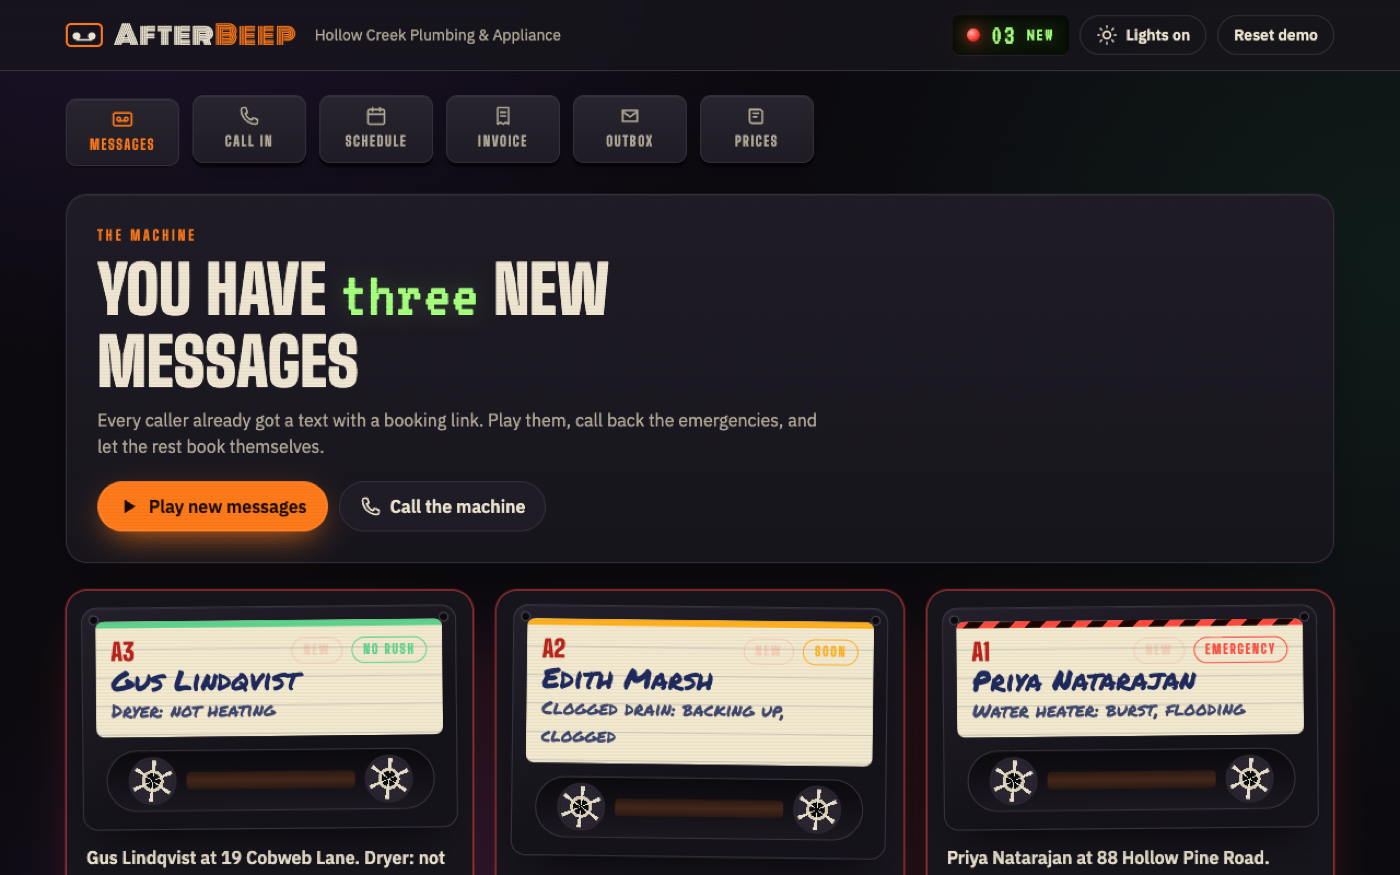
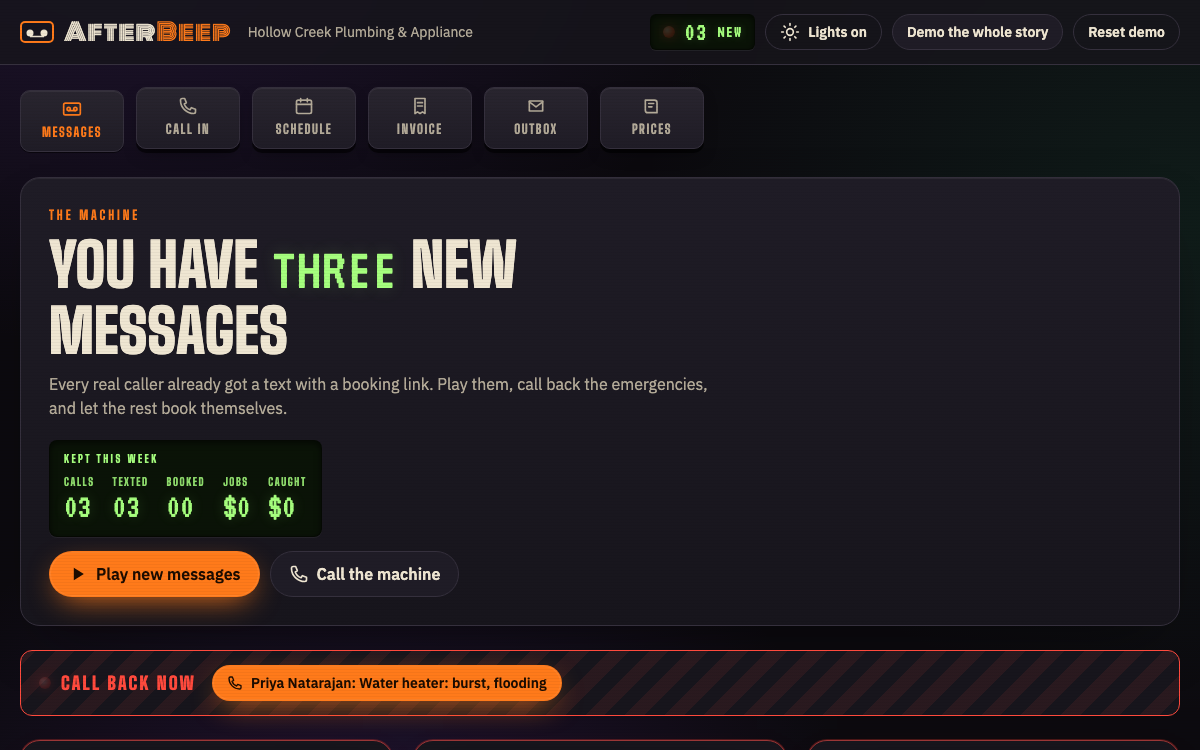
Rewrite the README around the demo, the stakes and the business
- A 15-second recording of the whole story, a "Try it in 60 seconds"
  list and a screenshot strip of the six key screens.
- What a missed call costs, with sources; price, cost to serve on AWS,
  margins, market and go-to-market; and how AfterBeep compares with
  iPhone Live Voicemail, Google Voice, Jobber, Podium and Smith.ai.
- A Mermaid diagram of the real AWS path, spec traceability counts, and
  a short Built with Kiro section that points to the feature map.

diff --git a/README.md b/README.md
@@ -1,105 +1,141 @@
 # AfterBeep
 
-**The answering machine, back from the dead: it answers the calls a one-person trade business misses, books the job by text, and turns a spoken invoice into a checked, approved bill.**
+**Kiroween 2026 · Resurrection** · [![check](https://github.com/blackwingArtisan/afterbeep/actions/workflows/check.yml/badge.svg)](https://github.com/blackwingArtisan/afterbeep/actions/workflows/check.yml) · MIT
 
-![AfterBeep inbox: missed calls shown as cassettes](docs/inbox.png)
+### The machine that hears fifteen and knows you meant fifty.
 
-## Who it's for
-Plumbers, appliance techs, HVAC and roofing crews of one. They miss calls because they are under a sink, and they write invoices at 9 pm because they were on a ladder all day. Every missed call is a job that goes to the next name on the search page.
+The 1985 front office, back from the dead, for one-person trade businesses. **The answering machine** answers the calls a plumber misses under a sink and texts every caller a booking link. **The Dictaphone** turns a spoken invoice into line items. **The carbon copies** remember what you charge, so "dryer belt, fifteen" is held until you confirm you meant $50. One plan, $39 a month.
 
-**Why now:** speech-to-text and language models became accurate enough to understand a rushed voicemail and cheap enough to run on every call, so a one-person shop can have a front desk without hiring one.
+**Live demo:** link added at deploy · **Video:** link added at submission
 
-**Pricing:** one plan, $39 a month, with a 14-day free trial. No per-invoice fee.
+![One missed call, from the beep to a sent invoice, in 15 seconds](docs/demo.gif)
+
+## Try it in 60 seconds
+Requires Node 24 or later. No accounts or keys.
+
+1. `npm ci && npm run build && npm start`, then open http://localhost:3111.
+2. On the landing page, press **Play** on the machine: it rings, types a burst water heater voicemail and shows the text the caller got back. Press **Bill** to see a misheard price held.
+3. Press **Demo the whole story**. A call places itself and ends with June's tape and the exact text she was sent.
+4. **Open the text as June**, pick a time, book.
+5. **Back to Morgan: bill it by voice.** Line it up, use the usual $50.00, approve and send. The invoice is stamped SENT.
+6. Open **Messages**: "Kept this week" now counts the booking and the $35 the price check caught.
+
+## What a missed call costs
+
+| | | Source |
+|---|---|---|
+| Callers who reach voicemail and hang up | **69%** | Moneypenny call report, 2016 |
+| Micro businesses that fail to answer their calls | **1 in 3** | Moneypenny call report, 2016 |
+| Typical minor appliance repair | **$206** | Thumbtack, 2026 |
+| Typical emergency plumbing call | **$377** | Thumbtack, 2026 |
+| US plumbing, HVAC and electrical contractors with no employees | **362,219**, up 10% since 2019 | US Census Bureau, Nonemployer Statistics 2023 |
+
+Five missed calls a week, one in three booked at $206, is about **$1,490 a month** of work that would have gone to the next name on the search page. One booked job pays for five months of AfterBeep. Sources, assumptions and the full model: [docs/business.md](docs/business.md).
+
+## Business
+
+- **Price:** $39 a month, flat, 14-day free trial, no per-call or per-invoice fees.
+- **Cost to serve on AWS:** about **$0.074 per call** (Connect, Transcribe, Bedrock Nova Lite, a two-segment text back and a confirmation) plus $3.90 a month for the number and 10DLC registration. Gross margin is **80% at 50 calls a month** and **52% at 200**. Texts are two-thirds of the cost, so shorter texts are the main lever.
+- **Market:** 1% of the solo building-equipment contractors alone is about $1.7 million a year.
+- **Go to market:** no new number (conditional call forwarding on the phone they already carry), supply-house counter cards with a "call this and leave a message" QR code, trade forums, and a free month per referral.
+
+## Why not iPhone Live Voicemail, Google Voice, Jobber, Podium or Smith.ai?
+
+| Option | Price | What it leaves undone |
+|---|---|---|
+| iPhone Live Voicemail | Free | Shows the message; no text back, no booking, no invoice |
+| Google Voice | $10-$30 per user a month | Transcribes; no booking link, no schedule, no price checks |
+| Jobber | Core $29-$49 a month, AI Receptionist +$29 | A whole field-service suite to move into; invoices do not check a spoken price against your history |
+| Podium | Quote from sales | Built for multi-location businesses |
+| Smith.ai AI Receptionist | Free for 25 calls, then $150 a month for 75 | Priced per call, answers as a receptionist, no invoices |
+
+A transcript is free now. What a solo tech still lacks is what happens after the beep: the text back, the booking, and a bill that cannot go out wrong.
+
+## Screens
+
+| Landing | The call | The hold |
+|---|---|---|
+| ![Landing page with the working answering machine](docs/screens/landing.png) | ![A missed call read, filed and texted back](docs/screens/story-call.png) | ![A misheard dryer belt price held against four past invoices](docs/screens/hold.png) |
+
+| The caller's phone | Sent | The inbox |
+|---|---|---|
+| ![Booking page on a phone](docs/screens/booking-phone.png) | ![Invoice stamped sent, next to the customer's text](docs/screens/story-sent.png) | ![Cassette inbox with the Kept this week readout](docs/inbox.png) |
 
 ## What works today
-Everything below runs on a laptop with no accounts and no keys.
+Everything runs on a laptop with no accounts. Each item is covered by the tests below.
 
-**Missed calls**
-- A call simulator rings the machine, plays the greeting and the beep, and records the caller. You can pick a sample voicemail, say one into the mic (Web Speech API), or type it.
-- Each message is read for the caller's name, callback number (a spoken number beats the caller ID), address, job, and urgency (emergency, soon, or routine).
-- The caller gets a text right away with a booking link. Emergencies are promised a call back, and everyone else is shown the first open slot.
-- Hang-ups and "hello? anyone there?" messages are filed but not texted, and a caller who rings twice in 10 minutes gets one text, not two.
-- The booking page shows real open slots: in the business's time zone, inside opening hours, with no overlap with booked jobs. Emergencies are offered slots today. When the caller books, the job lands on the schedule and a confirmation text goes out.
-- The inbox shows each message as a cassette with a seven-segment counter, a blinking message light, playback by speech synthesis, and one-tap call back.
+**The answering machine**
+- Reads each voicemail for the caller's name, callback number (a spoken number beats caller ID), address, job and urgency. A furnace that quit at twenty degrees with a baby at home is an emergency; no hot water is "soon".
+- Texts every real caller a booking link at once. Emergencies are promised a call back; everyone else sees the first open slot. Hang-ups get no text, a repeat caller gets one text per 10 minutes, and a text the carrier refuses is filed with a retry button.
+- The booking page offers real open slots in the business's time zone, lets the caller correct the address, and texts a confirmation.
+- The inbox shows each message as a cassette, emergencies first under a "Call back now" strip, with a seven-segment counter and a "Kept this week" readout.
 
-**Voice invoices**
-- Say "Dryer belt fifteen, taxed. One hour labor at eighty-five. Trip charge." and get line items. Code does every multiplication, the tax and the total, in integer cents.
-- A price book is built from the owner's past invoices. "Fifteen" for a belt that has always been $50 holds the invoice until the owner chooses. A missing price is filled from history, and "twelve fifty" reads as $1,250 for a water heater and $12.50 for a cartridge.
-- Quantities are checked too. "Forty water heater elements" when the most ever billed is two, or twenty hours of labor, holds the line. "Element ninety nine dollars and a thermostat for forty" becomes two lines, and a number said like a price is never read as a quantity.
-- A price with two readings and no history to settle it ("part three twenty-nine": $329 or $3.29) waits for the owner to pick one.
-- The confirm screen sends only when the server's recomputed total equals the exact total the owner approved. The customer gets an invoice link, the job is marked invoiced, and the price book learns the new prices.
-
-**Product**
-- A landing page with pricing, light and dark themes, and caller pages built for phones.
-
-## How to run
-Requires Node 24 or later.
-
-```bash
-npm ci
-npm run build
-npm start                 # http://localhost:3111
-```
-
-For development with hot reload:
-
-```bash
-npm run dev               # client on http://localhost:3110, API on 3111
-```
-
-Open `/machine` for the owner's machine and `/machine/call` to leave it a message. **Reset demo** restores the seeded data.
-
-**Demo mode.** The call simulator and the reset button need no login, so they only run in demo mode. Demo mode is on by default while every adapter is local (texts and invoices go only to the outbox) and turns off by itself when any real adapter is selected. Set `AFTERBEEP_DEMO=off` before any public deploy that holds real customer data. The owner screens have no login yet: this build is a single-tenant demo.
-
-## How to test
-```bash
-npm run typecheck
-npm test                  # Vitest: domain and API
-npx playwright install chromium
-npm run test:e2e          # Playwright against the production build on port 3112
-```
-
-The end-to-end tests drive the real server. They cover a missed call to a booked job, a hang-up that gets no text, a held invoice that is approved and sent, two items joined by "and", a held quantity, an ambiguous price the owner picks, the landing page and theme, and the caller booking page on a phone viewport.
+**The Dictaphone and the carbon copies**
+- "Dryer belt fifteen, taxed. One hour labor at eighty-five. Trip charge." becomes three lines. Code does every multiplication, the tax and the total in integer cents.
+- A price book built from past invoices holds a price more than 15% below or 25% above the usual one, fills a missing price from history, reads "twelve fifty" as $1,250 for a water heater, and keeps "forty gallon" as a size, not a quantity.
+- Quantities are checked too, and a price with two readings and no history waits for the owner to pick one.
+- The server recomputes the total and sends only when it equals the exact total the owner approved.
 
 ## Architecture
-```
-src/domain/     pure logic: money, spoken numbers, tax, invoice parser, price book, voicemail rules, slots
-src/adapters/   ports + implementations: store, transcriber, extractor, sms, invoices
-src/server/     Hono API, services (voicemail, booking, invoicing), seed data
-src/client/     React app: landing, machine (inbox, call, schedule, invoice, outbox, prices), caller pages
-infra/connect/  Amazon Connect contact flow + Lambda for the real phone path
-.kiro/          steering, specs, hooks
+
+```mermaid
+flowchart LR
+  caller([Caller]) -->|no answer, forwards| connect[Amazon Connect<br/>greeting, beep, record]
+  connect --> s3[(S3 recording)]
+  s3 --> lambda[Lambda<br/>recording-to-webhook]
+  lambda -->|Bearer secret| api[AfterBeep API<br/>Hono on Node]
+  api --> transcribe[Amazon Transcribe]
+  api --> bedrock[Amazon Bedrock<br/>Converse, forced tool,<br/>grounding guard]
+  api --> sms[AWS End User Messaging SMS]
+  sms -->|booking link| caller
+  owner([Owner]) -->|spoken invoice| api
+  api --> book[(Price book<br/>integer cents)]
+  api --> stripe[Stripe Invoicing<br/>test mode]
 ```
 
-```
-Phone or simulator -> receiveVoicemail: Transcriber -> Extractor -> Store -> openSlots -> SMS with /book/:token
-Caller -> /book/:token -> bookSlot -> Job -> confirmation SMS
-Owner speech -> parseInvoiceSpeech -> price book checks -> totals in cents -> approve exact total -> InvoiceProvider -> /i/:id
-```
-
-The domain layer has no I/O. Services take their dependencies (store, adapters, clock, id generator) as arguments, so the tests run the whole pipeline in memory with a fixed clock.
-
-## Adapters
-Each external service has a free local default and a real implementation. The real implementations are type-checked and are not called by the tests.
+Every outside service sits behind a port with a free local default, so the demo and all tests run with no accounts. The real adapters are type-checked and loaded only by environment variable.
 
 | Port | Env var | Local (default) | Real |
 |---|---|---|---|
-| Transcriber | `AFTERBEEP_TRANSCRIBER` | `local`: uses the browser transcript | `aws`: Amazon Transcribe on the S3 recording |
-| Extractor | `AFTERBEEP_EXTRACTOR` | `rules`: deterministic rules | `bedrock`: Amazon Bedrock Converse with a forced tool and schema validation; drops any number or address the caller never said; falls back to rules |
+| Transcriber | `AFTERBEEP_TRANSCRIBER` | `local`: the browser transcript | `aws`: Amazon Transcribe on the S3 recording |
+| Extractor | `AFTERBEEP_EXTRACTOR` | `rules`: deterministic rules | `bedrock`: Bedrock Converse with a forced tool; drops any number or address the caller never said; falls back to rules |
 | SMS | `AFTERBEEP_SMS` | `outbox`: shown at `/machine/outbox` | `aws`: AWS End User Messaging SMS |
-| Invoices | `AFTERBEEP_INVOICES` | `local`: outbox message and `/i/:id` page | `stripe`: Stripe Invoicing, test keys only, voids the invoice if Stripe's total differs |
+| Invoices | `AFTERBEEP_INVOICES` | `local`: outbox message and `/i/:id` page | `stripe`: test keys only; voids the invoice if Stripe's total differs |
 | Store | `AFTERBEEP_DATA_DIR` | JSON file with atomic writes | |
 
-All settings are listed in `.env.example`. The phone wiring is described in `infra/connect/README.md`.
+```
+src/domain/     pure logic: money, spoken numbers, tax, invoice parser, price book, voicemail rules, slots, kept stats
+src/adapters/   ports and implementations: store, transcriber, extractor, sms, invoices
+src/server/     Hono API, services (voicemail, booking, invoicing), seed data
+src/client/     React app: landing, machine (inbox, call, schedule, invoice, outbox, prices), caller pages
+infra/connect/  Amazon Connect contact flow and Lambda for the real phone path
+.kiro/          steering, specs, hooks, MCP settings
+```
 
-## Deploy
-`render.yaml` targets Render's free web service tier (one Node service, health check `/api/health`) as a public demo with local adapters, so nothing reaches a real phone or card. The app has not been deployed.
+The phone wiring is in [infra/connect/README.md](infra/connect/README.md). All settings are listed in `.env.example`.
+
+## Tests and spec traceability
+
+```bash
+npm run check             # typecheck, spec coverage, 132 Vitest unit and API tests
+npx playwright install chromium
+npm run test:e2e          # 15 Playwright tests against the production build on port 3112
+```
+
+Every test title names the EARS requirements it proves, such as `[VI 3.4, 3.7] holds a labor rate well below the usual rate`. `npm run spec:coverage` fails the build when a requirement has no test: today 85 of 89 are named by tests, and the other 4 are on the real AWS and Stripe path. CI runs all of it on every push.
+
+## Demo mode and deploy
+The call simulator and **Reset demo** need no login, so they run only in demo mode. Demo mode is on by default while every adapter is local and turns off by itself when any real adapter is selected; set `AFTERBEEP_DEMO=off` before any deploy that holds real customer data. The owner screens have no login yet: this build is a single-tenant demo. `render.yaml` describes a one-service deploy with local adapters.
+
+For development with hot reload: `npm run dev` (client on 3110, API on 3111).
 
 ## Built with Kiro
-- `.kiro/steering/` holds the product rules, stack and file layout that every change follows.
-- `.kiro/specs/missed-call-booking/` and `.kiro/specs/voice-invoicing/` hold the EARS requirements, design and task list for each feature.
-- `.kiro/hooks/` runs the unit tests on save, asks for a money-safety review when the money files change, and type-checks at the end of a session.
-- `KIRO-LOG.md` records every Kiro call: what it was asked, what it produced, and what went wrong.
+Kiro steering, specs, hooks and MCP settings live in [`.kiro/`](.kiro). [KIRO-LOG.md](KIRO-LOG.md) maps each Kiro feature to the files that use it and says which were written by Kiro and which by hand.
+
+- **Steering:** product, tech and structure rules always included; money rules load with domain files and AWS rules with adapters; a manual demo script.
+- **Specs:** two features in EARS form, 89 criteria, every task checked off and traced to tests. A Kiro review against the code added four criteria the code already met.
+- **Hooks:** unit tests on save, a money-rules guard, spec sync, a copy review, and typecheck plus build checks when the agent stops.
+- **MCP:** AWS documentation and Context7.
 
 ## License
 MIT, Stubborn Otter Software. All people, businesses, addresses and phone numbers in the demo data are invented.
